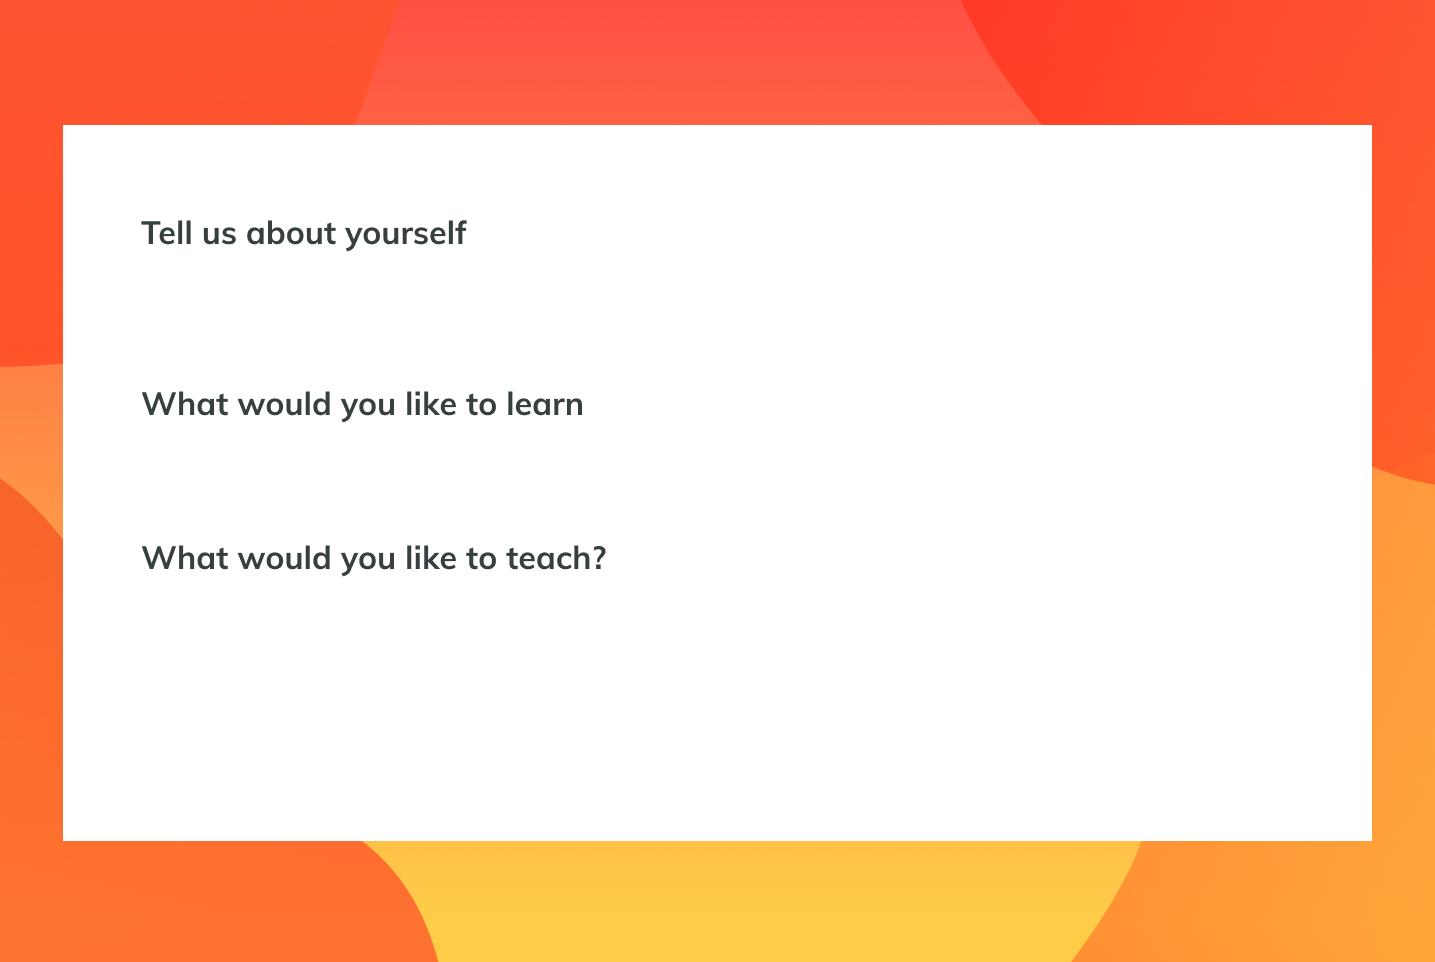
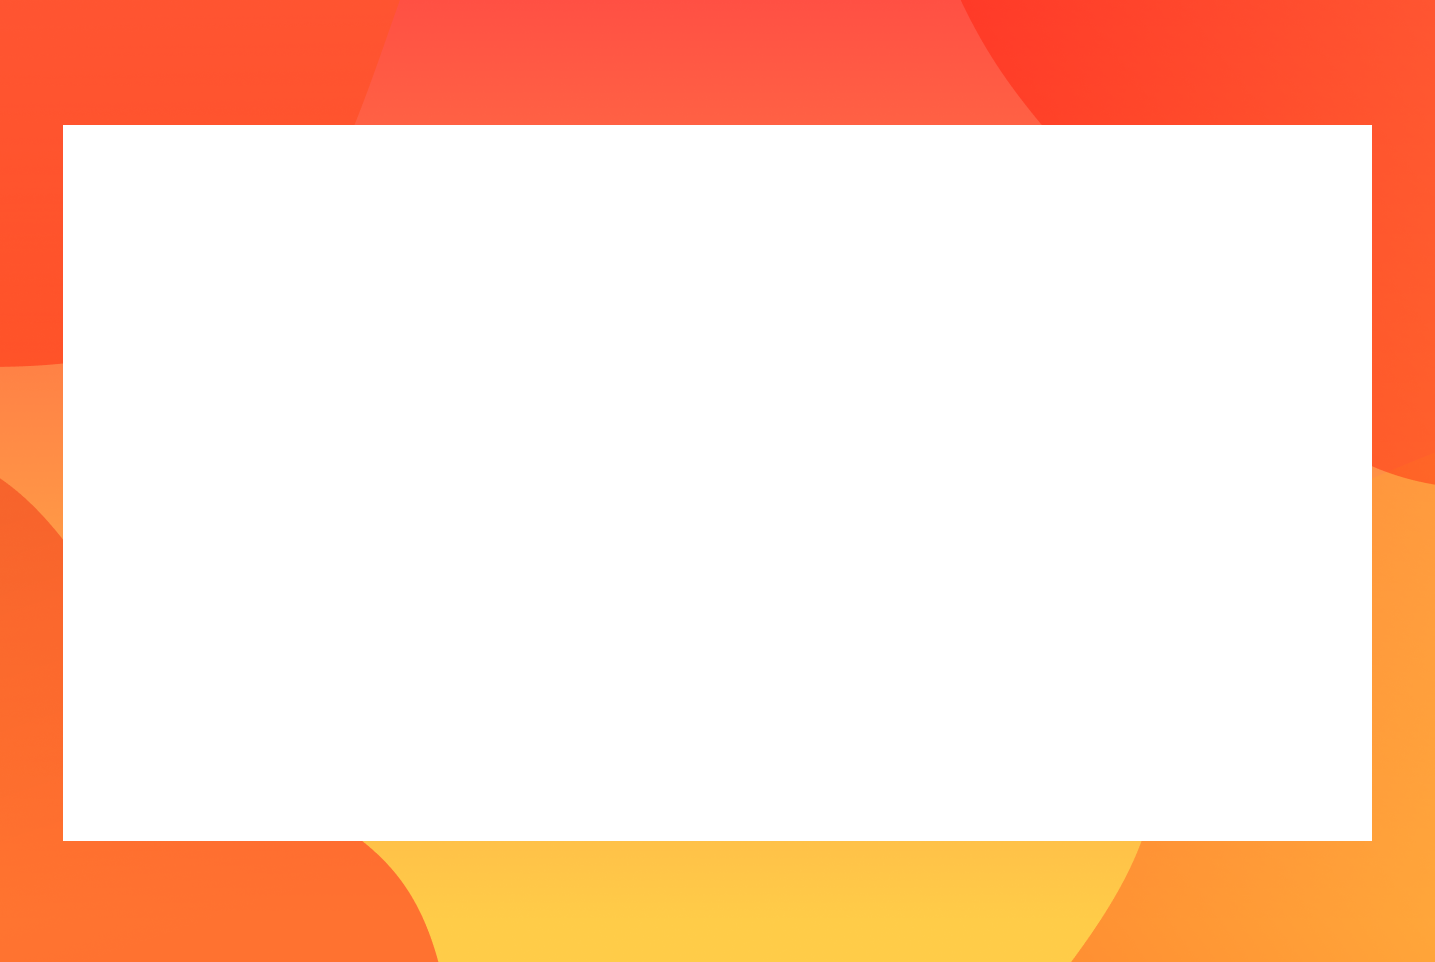
Updated Profile Selection page

Changed region(s): [[0.092, 0.5613, 0.4293, 0.5925], [0.092, 0.4054, 0.3986, 0.4366], [0.092, 0.2183, 0.3373, 0.2495]]

diff --git a/src/components/Profile.js b/src/components/Profile.js
@@ -11,6 +11,7 @@ import ListItemText from '@material-ui/core/ListItemText';
 import Select from '@material-ui/core/Select';
 import Checkbox from '@material-ui/core/Checkbox';
 import ProfileImage from "../assets/img/Profile.png";
+import { ArrowLeft } from '@material-ui/icons';
 
 const jss = create({
   plugins: [jssTemplate(), ...jssPreset().plugins],
@@ -20,9 +21,9 @@ const useStyles = makeStyles((theme) => ({
   root: {
     '& .MuiTextField-root': {
       margin: theme.spacing(1),
-      width: '145ch',
-      right: "-130px",
-      top: "190px",
+      width: '143ch',
+      right: "-137px",
+      top: "-10px",
     },
   },
   formControl: {
@@ -30,7 +31,18 @@ const useStyles = makeStyles((theme) => ({
     minWidth: 185,
     maxWidth: 185,
     right: "-100px",
-    top: "130px",
+    top: "-50px",
+  },
+  text1: {
+    paddingTop: '115px',
+    textIndent: '140px',
+  },
+  text2: {
+    paddingTop: '40px',
+    textIndent: '140px',
+  },
+  text3: {
+    textIndent: '140px',
   },
 }));
 
@@ -39,8 +51,8 @@ const ITEM_PADDING_TOP = 8;
 const MenuProps = {
   PaperProps: {
     style: {
-      maxHeight: ITEM_HEIGHT * 4.5 + ITEM_PADDING_TOP,
-      width: 185,
+      maxHeight: ITEM_HEIGHT * 3 + ITEM_PADDING_TOP,
+      width: 215,
     },
   },
 };
@@ -170,10 +182,11 @@ const history4 = [
 
 
 
+
 export default function Profile() {
   const classes = useStyles();
 
-  const [textbox, setTextbox] = React.useState('Controlled');
+  const [textbox, setTextbox] = React.useState([]);
 
   const [languages1, setLanguages1] = React.useState([]);
   const [music1, setMusic1] = React.useState([]);
@@ -232,6 +245,11 @@ export default function Profile() {
       backgroundPosition: 'center',
       }}>
     <div>
+      <div className={classes.text1}>
+          <h2>Tell us about yourself.</h2>
+          <br></br>
+      </div>
+
     <form className={classes.root} noValidate autoComplete="off">
       <div>
         <TextField
@@ -246,9 +264,11 @@ export default function Profile() {
         />
       </div>
     </form>
-
+    <div className={classes.text2}>
+          <h2>What would you like to learn?</h2>
+          <br></br>
+      </div>
     <div>
-    <h1>This is heading 1</h1>
       <FormControl className={classes.formControl}>
         <InputLabel id="demo-mutiple-checkbox-label">Languages</InputLabel>
         <Select
@@ -354,10 +374,10 @@ export default function Profile() {
         </Select>
       </FormControl>
       </div>
-      <br></br>
-      <br></br>
-      <br></br>
-      <br></br>
+      <div className={classes.text3}>
+          <h2>What would you like to teach?</h2>
+
+      </div>
       <div>
       <FormControl className={classes.formControl}>
         <InputLabel id="demo-mutiple-checkbox-label">Languages</InputLabel>
@@ -394,7 +414,7 @@ export default function Profile() {
         >
           {music4.map((music4) => (
             <MenuItem key={music4} value={music4}>
-              <Checkbox checked={music2.indexOf(music4) > -2} />
+              <Checkbox checked={music2.indexOf(music4) > -1} />
               <ListItemText primary={music4} />
             </MenuItem>
           ))}
